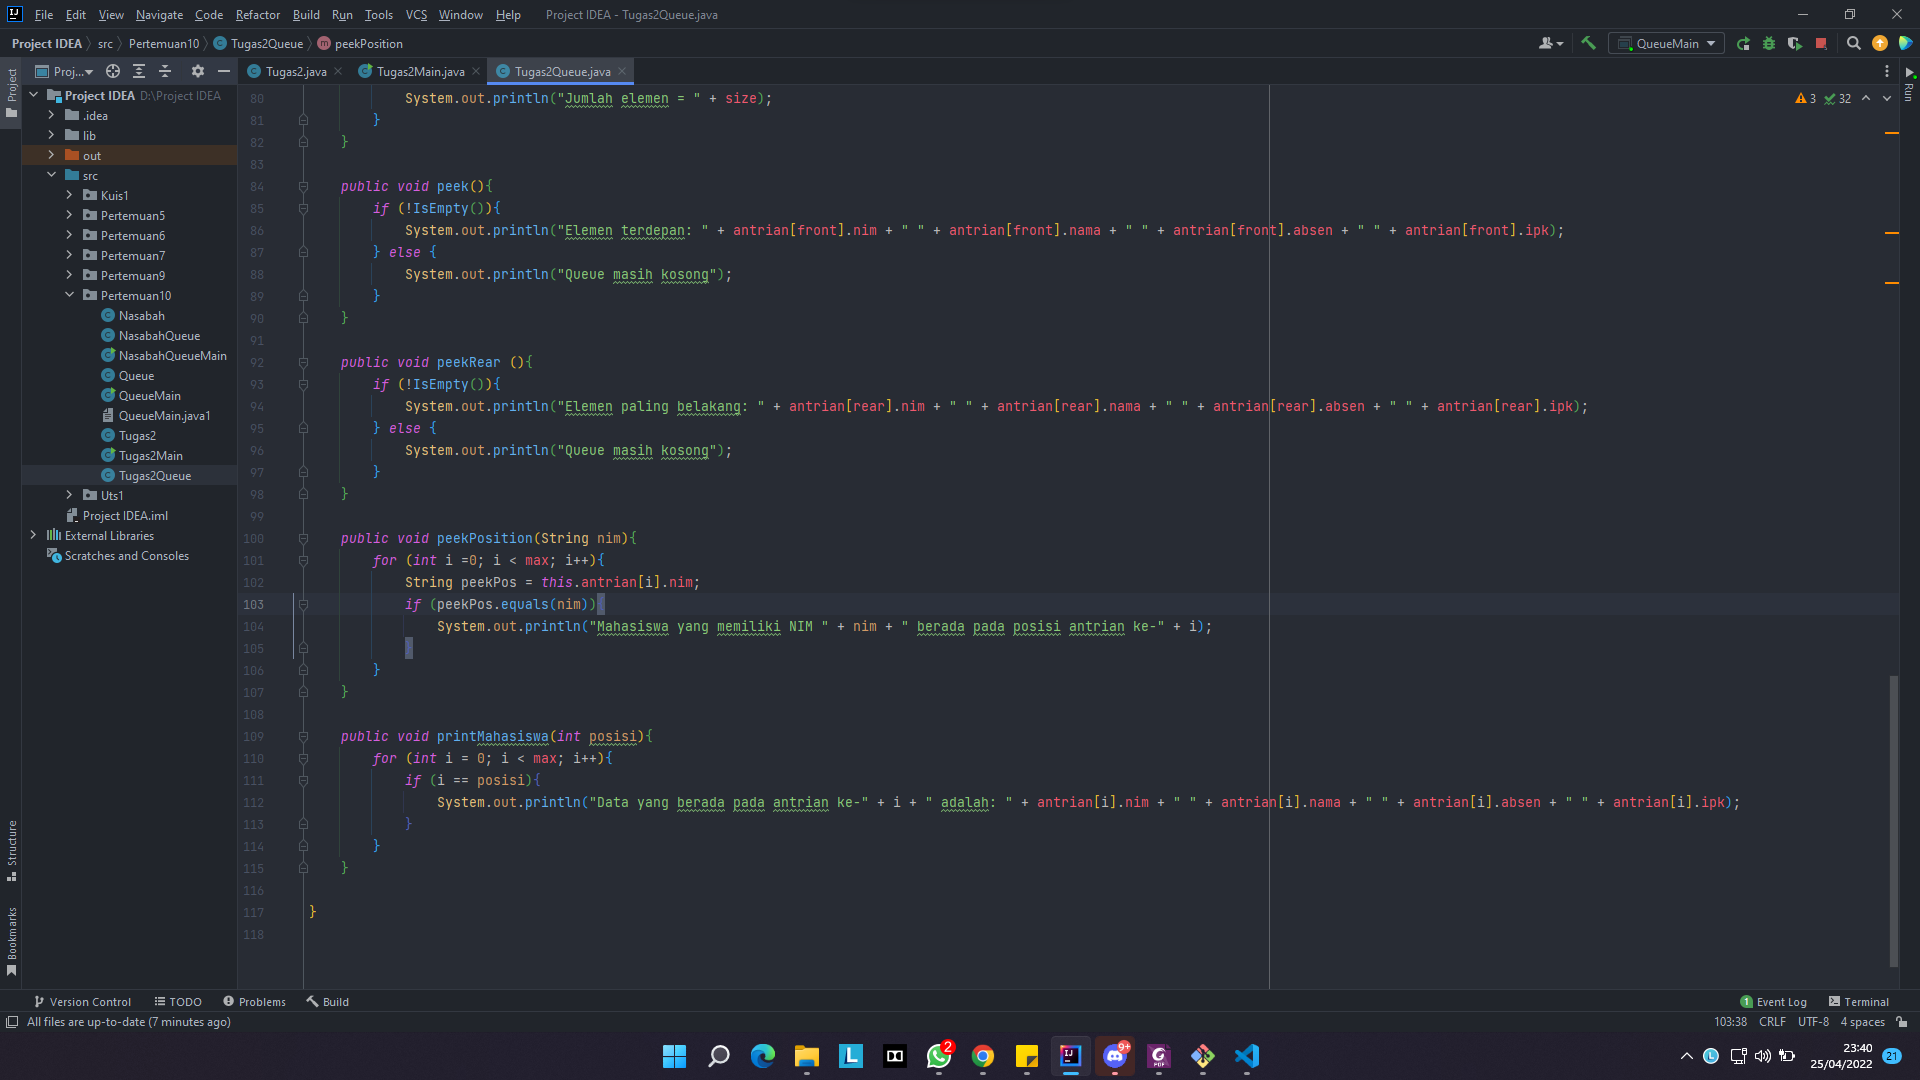
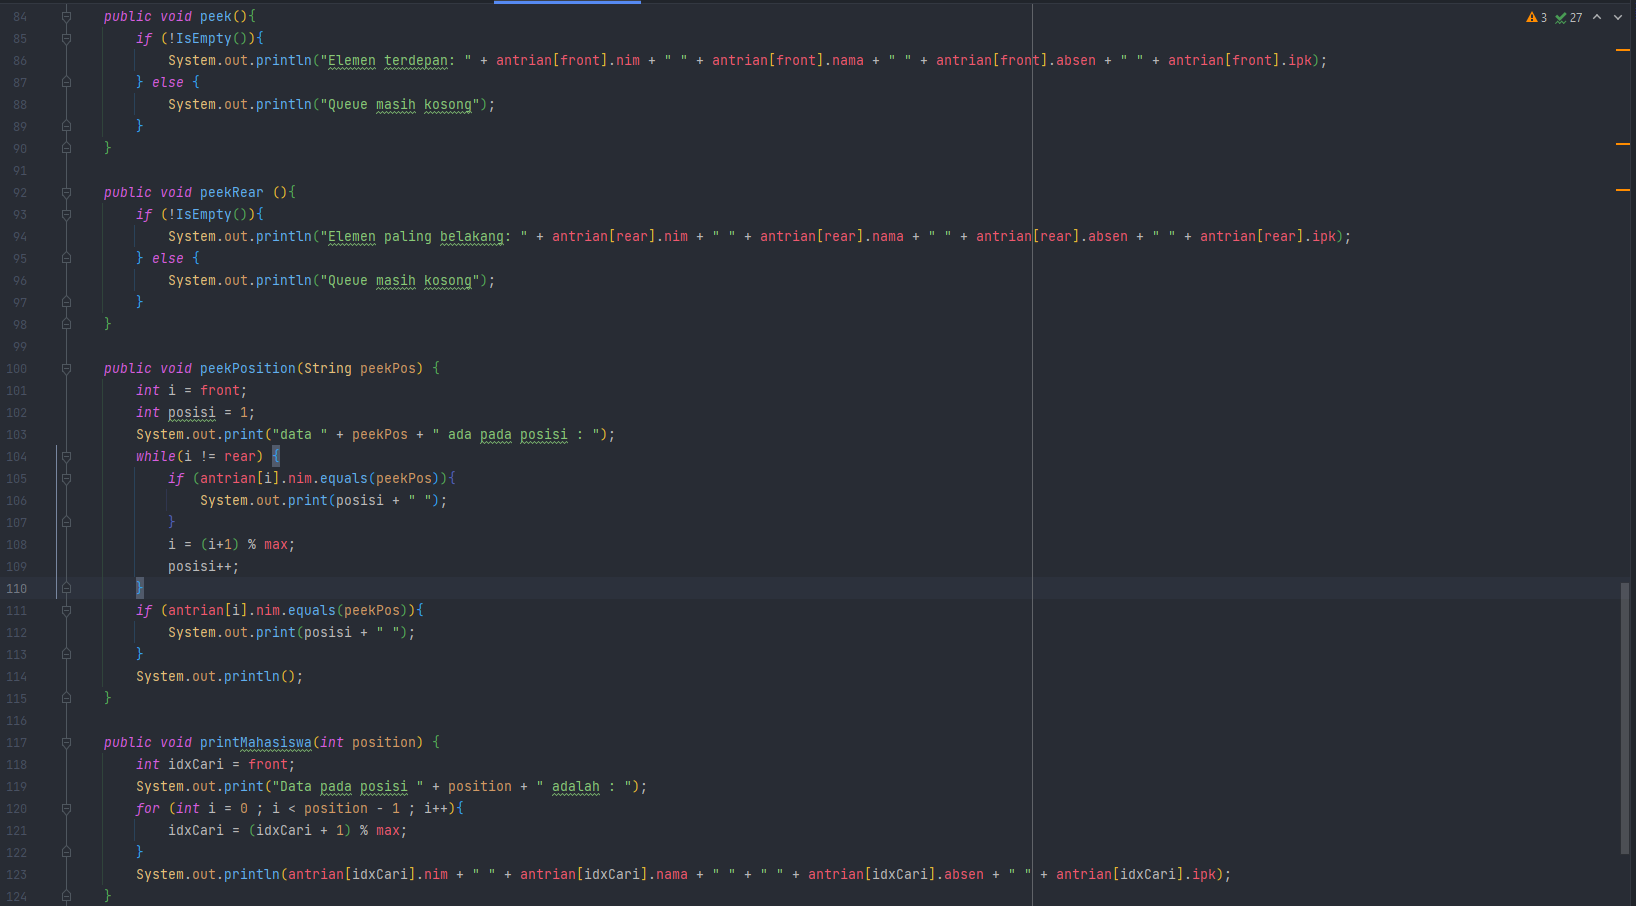
Pertemuan 10

diff --git a/Pertemuan 10/Code/Tugas2Queue.java b/Pertemuan 10/Code/Tugas2Queue.java
@@ -97,21 +97,30 @@ public class Tugas2Queue {
         }
     }
 
-    public void peekPosition(String nim){
-        for (int i =0; i < max; i++){
-            String peekPos = this.antrian[i].nim;
-            if (peekPos.equals(nim)){
-                System.out.println("Mahasiswa yang memiliki NIM " + nim + " berada pada posisi antrian ke-" + i);
+    public void peekPosition(String peekPos) {
+        int i = front;
+        int posisi = 1;
+        System.out.print("data " + peekPos + " ada pada posisi : ");
+        while(i != rear) {
+            if (antrian[i].nim.equals(peekPos)){
+                System.out.print(posisi + " ");
             }
+            i = (i+1) % max;
+            posisi++;
         }
+        if (antrian[i].nim.equals(peekPos)){
+            System.out.print(posisi + " ");
+        }
+        System.out.println();
     }
 
-    public void printMahasiswa(int posisi){
-        for (int i = 0; i < max; i++){
-            if (i == posisi){
-                System.out.println("Data yang berada pada antrian ke-" + i + " adalah: " + antrian[i].nim + " " + antrian[i].nama + " " + antrian[i].absen + " " + antrian[i].ipk);
-            }
+    public void printMahasiswa(int position) {
+        int idxCari = front;
+        System.out.print("Data pada posisi " + position + " adalah : ");
+        for (int i = 0 ; i < position - 1 ; i++){
+            idxCari = (idxCari + 1) % max;
         }
+        System.out.println(antrian[idxCari].nim + " " + antrian[idxCari].nama + " " + " " + antrian[idxCari].absen + " " + antrian[idxCari].ipk);
     }
 
 }

diff --git a/Pertemuan 10/Code/Queue.java b/Pertemuan 10/Code/Queue.java
@@ -99,20 +99,29 @@ public class Queue {
         return dt;
     }
 
-    public void peekPosition(int data){
-        for (int i =0; i < max; i++){
-            int peekPos = this.data[i];
-            if (peekPos == data){
-                System.out.println("Data " + data + " berada pada posisi index ke-" + i);
+    public void peekPosition(int dataDicari) {
+        int i = front;
+        int posisi = 1;
+        System.out.print("Data " + dataDicari + " berada pada posisi index ke-");
+        while(i != rear) {
+            if (data[i]==dataDicari){
+                System.out.print(posisi + " ");
             }
+            i = (i+1) % max;
+            posisi++;
         }
+        if (data[i] == dataDicari){
+            System.out.print(posisi + " ");
+        }
+        System.out.println();
     }
 
-    public void peekAt(int position){
-        for (int i = 0; i < max; i++){
-            if (i == position){
-                System.out.println("Data yang berada pada index ke-" + i + " adalah: " + this.data[i]);
-            }
+    public void peekAt(int position) {
+        int idxDicari = front;
+        System.out.print("Data yang berada pada index ke-" + position + " adalah : ");
+        for (int i = 0 ; i < position - 1 ; i++){
+            idxDicari = (idxDicari + 1) % max;
         }
+        System.out.println(data[idxDicari] + " ");
     }
 }

diff --git a/Pertemuan 10/Code/Tugas2.java b/Pertemuan 10/Code/Tugas2.java
@@ -1,7 +1,5 @@
 package Pertemuan10;
 
-import Pertemuan6.Mahasiswa;
-
 public class Tugas2 {
     String nim;
     String nama;
